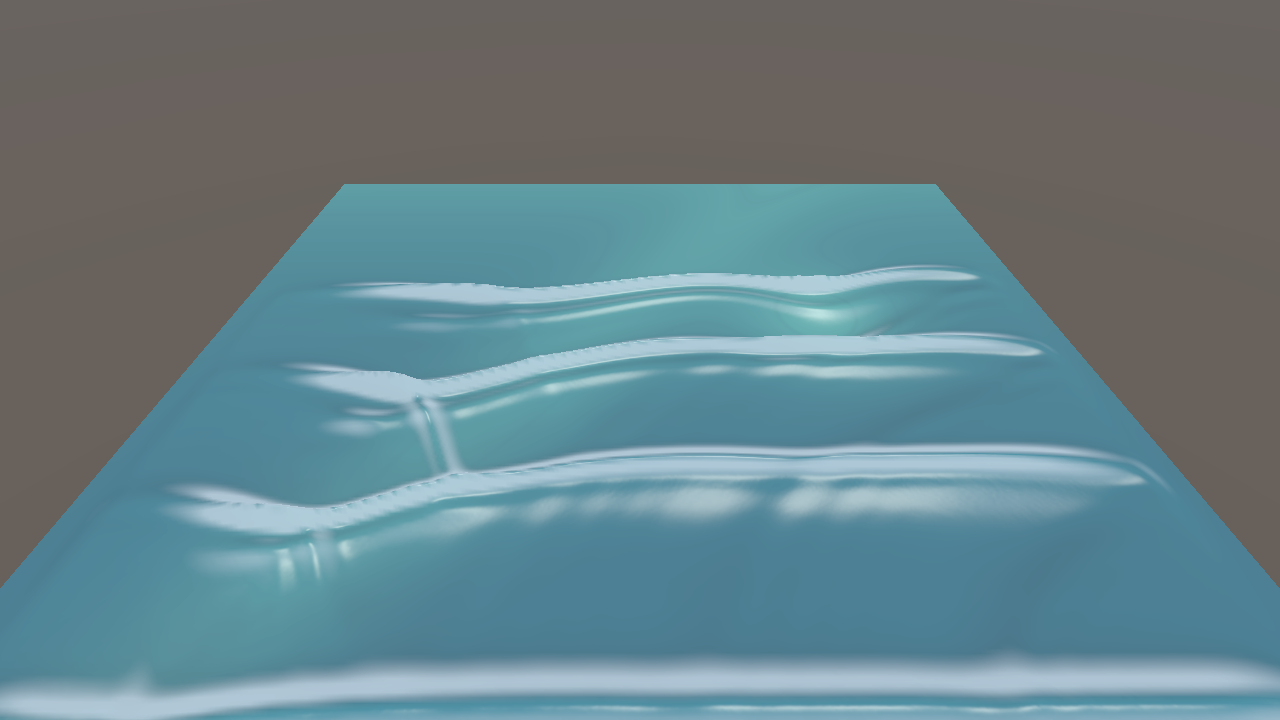
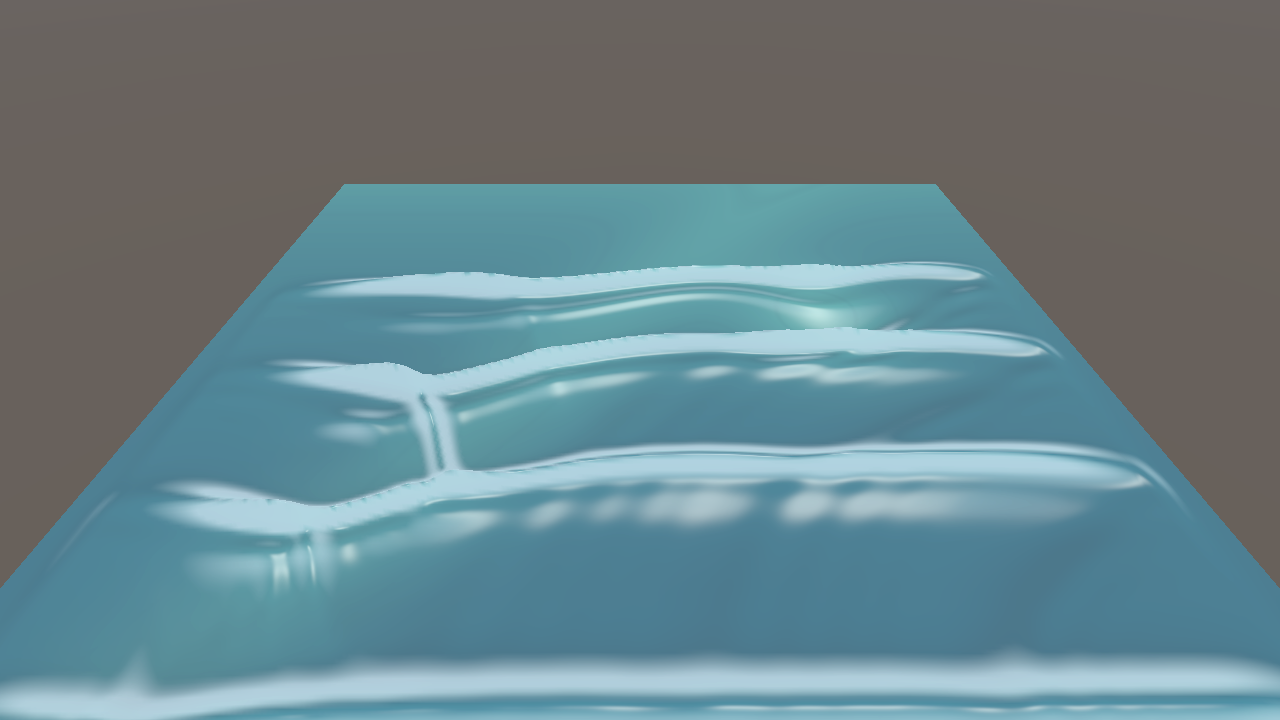
feat(solver): Improve Boussinesq fp32/symmetric accuracy and FFT choppy wave crests

diff --git a/Packages/com.nobnak.water-simulation/Runtime/Boussinesq/BoussinesqSimulation.cs b/Packages/com.nobnak.water-simulation/Runtime/Boussinesq/BoussinesqSimulation.cs
@@ -210,12 +210,12 @@ namespace Nobnak.WaterSimulation {
             int w = resolution.x;
             int h = resolution.y;
 
-            stateTexA = CreateSimulationTexture(w, h, RenderTextureFormat.ARGBHalf);
-            stateTexB = CreateSimulationTexture(w, h, RenderTextureFormat.ARGBHalf);
-            predTex = CreateSimulationTexture(w, h, RenderTextureFormat.ARGBHalf);
-            forceTex = CreateSimulationTexture(w, h, RenderTextureFormat.RGHalf);
-            accelTexA = CreateSimulationTexture(w, h, RenderTextureFormat.RGHalf);
-            accelTexB = CreateSimulationTexture(w, h, RenderTextureFormat.RGHalf);
+            stateTexA = CreateSimulationTexture(w, h, RenderTextureFormat.ARGBFloat);
+            stateTexB = CreateSimulationTexture(w, h, RenderTextureFormat.ARGBFloat);
+            predTex = CreateSimulationTexture(w, h, RenderTextureFormat.ARGBFloat);
+            forceTex = CreateSimulationTexture(w, h, RenderTextureFormat.RGFloat);
+            accelTexA = CreateSimulationTexture(w, h, RenderTextureFormat.RGFloat);
+            accelTexB = CreateSimulationTexture(w, h, RenderTextureFormat.RGFloat);
             normalTex = CreateSimulationTexture(w, h, RenderTextureFormat.ARGBHalf);
             waterDataTex = CreateSimulationTexture(w, h, RenderTextureFormat.ARGBHalf);
             bathymetryTex = CreateSimulationTexture(w, h, RenderTextureFormat.ARGBHalf);
@@ -323,20 +323,21 @@ namespace Nobnak.WaterSimulation {
             boussinesqShader.SetFloat(PropBedFriction, bedFriction);
             boussinesqShader.SetFloat(PropSpongeWidth, spongeWidth);
             boussinesqShader.SetFloat(PropSpongeStrength, spongeStrength);
+            boussinesqShader.SetInt(PropStepParity, pingPong ? 1 : 0);
 
             boussinesqShader.SetFloat(PropWavemakerAmp, activeAmp);
             boussinesqShader.SetFloat(PropWavemakerFreq, wavemakerFrequency);
             boussinesqShader.SetFloat(PropWavemakerPhase, wavemakerPhase);
             boussinesqShader.SetInt(PropWavemakerY, wavemakerY);
 
-            // 1. Predictor step (Forward differences -> predTex)
+            // 1. Predictor step (Forward/Backward differences -> predTex)
             boussinesqShader.SetTexture(kernelPredict, PropStateIn, current);
             boussinesqShader.SetTexture(kernelPredict, PropStatePred, predTex);
             boussinesqShader.SetTexture(kernelPredict, PropBathymetryTex, bathymetryTex);
             boussinesqShader.SetTexture(kernelPredict, PropForceTex, forceTex);
             DispatchCompute(kernelPredict);
 
-            // 2. Corrector step (Backward differences on predTex + average -> next)
+            // 2. Corrector step (Opposite differences on predTex + average -> next)
             boussinesqShader.SetTexture(kernelCorrect, PropStateIn, current);
             boussinesqShader.SetTexture(kernelCorrect, PropStatePred, predTex);
             boussinesqShader.SetTexture(kernelCorrect, PropStateOut, next);
@@ -345,11 +346,11 @@ namespace Nobnak.WaterSimulation {
             boussinesqShader.SetTexture(kernelCorrect, PropAccelPing, accelTexA);
             DispatchCompute(kernelCorrect);
 
-            // 3. Helmholtz dispersion inversion (if enabled)
+            // 3. Warm-started Pade (2,2) Helmholtz dispersion inversion (if enabled)
             if (dispersionAlpha > 0.001f) {
                 RenderTexture jSrc = accelTexA;
                 RenderTexture jDst = accelTexB;
-                for (int iter = 0; iter < 4; iter++) {
+                for (int iter = 0; iter < 6; iter++) {
                     boussinesqShader.SetTexture(kernelJacobiStep, PropBathymetryTex, bathymetryTex);
                     boussinesqShader.SetTexture(kernelJacobiStep, PropForceTex, forceTex);
                     boussinesqShader.SetTexture(kernelJacobiStep, PropAccelPing, jSrc);
@@ -361,8 +362,9 @@ namespace Nobnak.WaterSimulation {
                     jDst = tmp;
                 }
 
-                // 4. Apply dispersion acceleration to velocities
+                // 4. Apply Pade (2,2) resolvent-split acceleration to velocities
                 boussinesqShader.SetTexture(kernelApplyDispersion, PropStateOut, next);
+                boussinesqShader.SetTexture(kernelApplyDispersion, PropForceTex, forceTex);
                 boussinesqShader.SetTexture(kernelApplyDispersion, PropAccelPing, jSrc);
                 boussinesqShader.SetTexture(kernelApplyDispersion, PropBathymetryTex, bathymetryTex);
                 DispatchCompute(kernelApplyDispersion);
@@ -518,6 +520,7 @@ namespace Nobnak.WaterSimulation {
         private static readonly int PropBedFriction = Shader.PropertyToID("_BedFriction");
         private static readonly int PropSpongeWidth = Shader.PropertyToID("_SpongeWidth");
         private static readonly int PropSpongeStrength = Shader.PropertyToID("_SpongeStrength");
+        private static readonly int PropStepParity = Shader.PropertyToID("_StepParity");
         private static readonly int PropWavemakerAmp = Shader.PropertyToID("_WavemakerAmp");
         private static readonly int PropWavemakerFreq = Shader.PropertyToID("_WavemakerFreq");
         private static readonly int PropWavemakerPhase = Shader.PropertyToID("_WavemakerPhase");

diff --git a/Packages/com.nobnak.water-simulation/Editor/WaterCaptureRunner.cs b/Packages/com.nobnak.water-simulation/Editor/WaterCaptureRunner.cs
@@ -88,6 +88,60 @@ namespace Nobnak.WaterSimulation.Editor {
             Debug.Log("[WaterSimulation] Completed Scene 02 Boussinesq captures (Active, Bathymetry, PlanarSoliton)!");
         }
 
+        [MenuItem("Tools/Water Simulation/Capture Scene 02 And 03", false, 62)]
+        public static void CaptureScene02And03() {
+            CaptureScene02();
+            CaptureScene03Choppiness();
+        }
+
+        [MenuItem("Tools/Water Simulation/Capture Scene 03 Choppiness", false, 63)]
+        public static void CaptureScene03Choppiness() {
+            if (!Directory.Exists(CaptureDir)) Directory.CreateDirectory(CaptureDir);
+            CaptureScene("Assets/Scenes/03_FFTWater.unity", "03_FFTWater_Overview.png", "03_FFTWater_Active.png", 45);
+
+            var scene = EditorSceneManager.OpenScene("Assets/Scenes/03_FFTWater.unity", OpenSceneMode.Single);
+            var cam = Camera.main;
+            if (cam == null) cam = Object.FindFirstObjectByType<Camera>();
+            if (cam == null) return;
+
+            int width = 1280;
+            int height = 720;
+            var rt = new RenderTexture(width, height, 24, RenderTextureFormat.ARGB32);
+            var prevTarget = cam.targetTexture;
+            cam.targetTexture = rt;
+
+            var fftSim = Object.FindFirstObjectByType<FFTOceanSimulation>();
+            var renderer = Object.FindFirstObjectByType<WaterRenderer>();
+
+            if (fftSim != null && renderer != null) {
+                fftSim.ApplySeaStatePreset(FFTOceanSimulation.SeaStatePreset.Stormy);
+                fftSim.EnableFoam = false;
+                fftSim.ResetSimulation();
+
+                float dt = 0.033f;
+                for (int i = 0; i < 45; i++) fftSim.Step(dt);
+
+                // 1. Choppiness = 0.0 (Pure sine wave synthesis)
+                fftSim.Choppiness = 0.0f;
+                fftSim.Step(0.001f);
+                renderer.UpdateMaterialProperties();
+                cam.Render();
+                SaveRenderTextureToPNG(rt, Path.Combine(CaptureDir, "03_FFTWater_Choppy0.png"));
+
+                // 2. Choppiness = 2.2 (Sharp trochoidal choppy wave synthesis at identical phase)
+                fftSim.Choppiness = 2.2f;
+                fftSim.Step(0.001f);
+                renderer.UpdateMaterialProperties();
+                cam.Render();
+                SaveRenderTextureToPNG(rt, Path.Combine(CaptureDir, "03_FFTWater_Choppy22.png"));
+            }
+
+            cam.targetTexture = prevTarget;
+            rt.Release();
+            Object.DestroyImmediate(rt);
+            Debug.Log("[WaterSimulation] Completed Scene 03 Choppiness comparison captures!");
+        }
+
         [MenuItem("Tools/Water Simulation/Capture Periodic Pulses", false, 63)]
         public static void CapturePeriodicPulses() {
             if (!Directory.Exists(CaptureDir)) Directory.CreateDirectory(CaptureDir);

diff --git a/Packages/com.nobnak.water-simulation/Runtime/FFTWater/FFTOceanSimulation.cs b/Packages/com.nobnak.water-simulation/Runtime/FFTWater/FFTOceanSimulation.cs
@@ -27,8 +27,8 @@ namespace Nobnak.WaterSimulation {
         [SerializeField] private float windDirectionDegrees = 45.0f;
 
         [Tooltip("Horizontal choppy wave displacement scale.")]
-        [Range(0f, 2.0f)]
-        [SerializeField] private float choppiness = 0.85f;
+        [Range(0f, 3.0f)]
+        [SerializeField] private float choppiness = 1.35f;
 
         [Header("Swell Component")]
         [Tooltip("Amplitude of distant swell waves [m].")]
@@ -102,12 +102,18 @@ namespace Nobnak.WaterSimulation {
 
         public float Choppiness {
             get => choppiness;
-            set => choppiness = math.clamp(value, 0f, 2.5f);
+            set {
+                choppiness = math.clamp(value, 0f, 3.0f);
+                if (!isRunning) OnStepSimulation(0f);
+            }
         }
 
         public bool EnableFoam {
             get => enableFoam;
-            set => enableFoam = value;
+            set {
+                enableFoam = value;
+                if (!isRunning) OnStepSimulation(0f);
+            }
         }
         #endregion
 
@@ -126,21 +132,21 @@ namespace Nobnak.WaterSimulation {
                 case SeaStatePreset.Calm:
                     windSpeed = 4.0f;
                     windDirectionDegrees = 30.0f;
-                    choppiness = 0.7f;
+                    choppiness = 0.6f;
                     swellStrength = 0.2f;
                     swellDirectionDegrees = 60.0f;
                     break;
                 case SeaStatePreset.Swell:
                     windSpeed = 8.0f;
                     windDirectionDegrees = 45.0f;
-                    choppiness = 1.1f;
+                    choppiness = 1.35f;
                     swellStrength = 2.2f;
                     swellDirectionDegrees = 135.0f;
                     break;
                 case SeaStatePreset.Stormy:
                     windSpeed = 18.0f;
                     windDirectionDegrees = 70.0f;
-                    choppiness = 1.4f;
+                    choppiness = 1.9f;
                     swellStrength = 3.5f;
                     swellDirectionDegrees = 90.0f;
                     break;

diff --git a/Packages/com.nobnak.water-simulation/Runtime/Common/WaterSampleUI.cs b/Packages/com.nobnak.water-simulation/Runtime/Common/WaterSampleUI.cs
@@ -297,7 +297,7 @@ namespace Nobnak.WaterSimulation {
 
                 GUILayout.BeginHorizontal();
                 GUILayout.Label($"Choppy: {fftSim.Choppiness:F2}", GUILayout.Width(90));
-                fftSim.Choppiness = GUILayout.HorizontalSlider(fftSim.Choppiness, 0.0f, 2.0f);
+                fftSim.Choppiness = GUILayout.HorizontalSlider(fftSim.Choppiness, 0.0f, 3.0f);
                 GUILayout.EndHorizontal();
 
                 GUILayout.BeginHorizontal();
